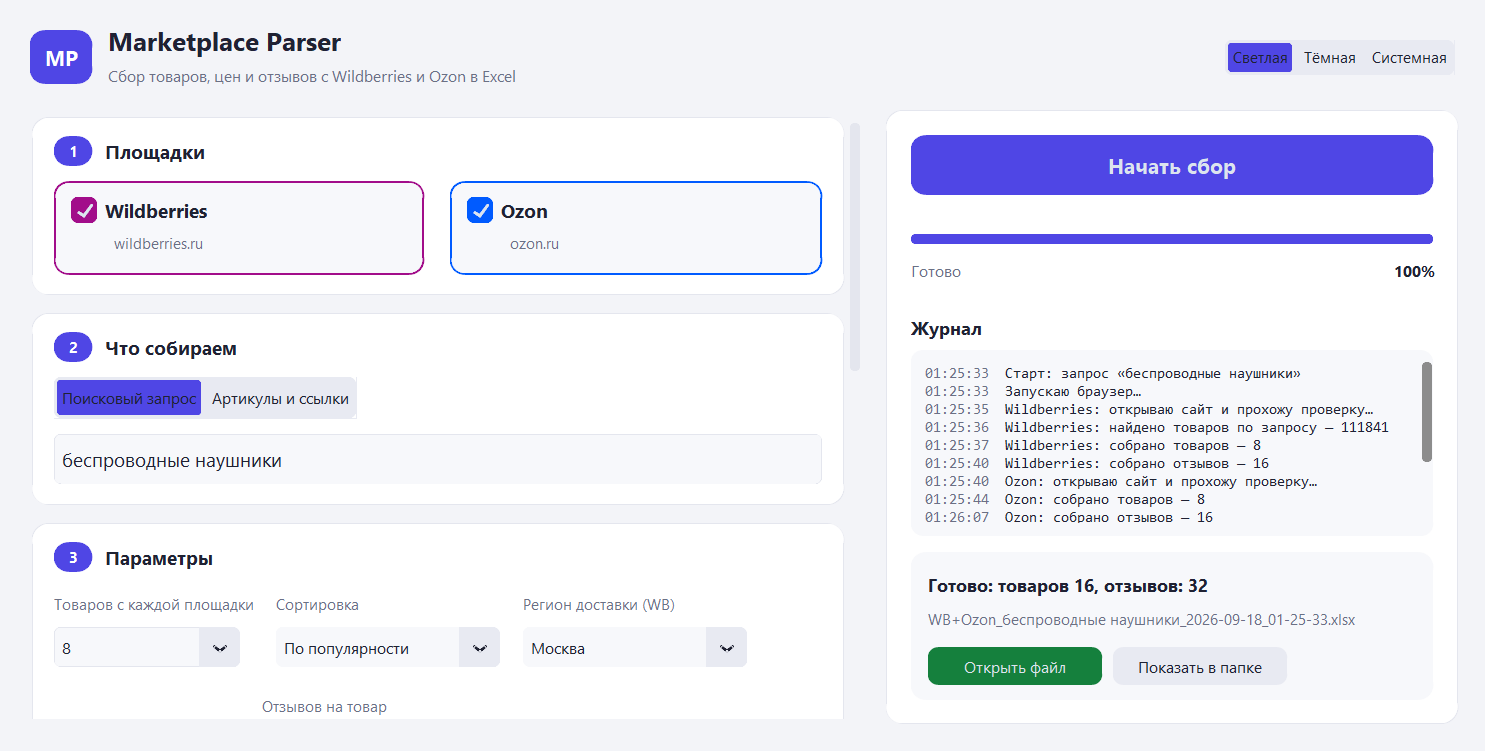
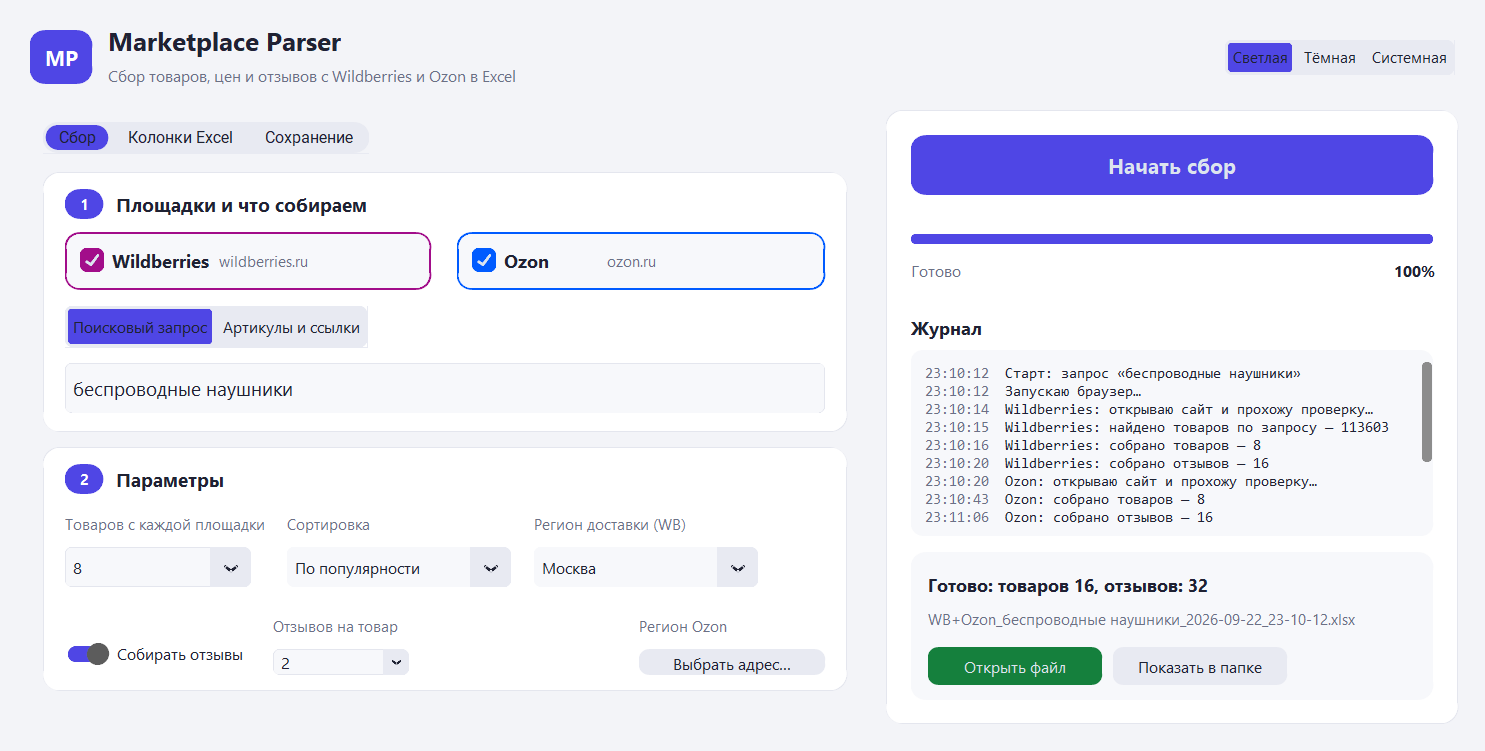
Версия 1.0.1: вкладки вместо прокрутки, системные требования в README
- Настройки разложены по вкладкам «Сбор», «Колонки Excel», «Сохранение».
  Прокрутка убрана: при ней Tkinter не успевал перерисовывать вложенные
  карточки, и рамки «наезжали» друг на друга.
- Скриншоты снимаются через PrintWindow (tools/window_capture.py): снимок
  берётся у самого окна, чужие окна поверх него в кадр не попадают.
- README: системные требования (Windows 10/11 x64, Chrome или Edge) и раздел
  про SmartScreen и добавление папки программы в исключения антивируса.

diff --git a/mpparser/gui/app.py b/mpparser/gui/app.py
@@ -66,13 +66,22 @@ class App(ctk.CTk):
         content.grid_columnconfigure(1, weight=2, uniform="columns")
         content.grid_rowconfigure(0, weight=1)
 
-        self.form = ctk.CTkScrollableFrame(content, fg_color="transparent", scrollbar_button_color=theme.CARD_BORDER)
-        self.form.grid(row=0, column=0, sticky="nsew", padx=(0, 16))
-        self._build_marketplaces()
-        self._build_input()
-        self._build_options()
-        self._build_fields()
-        self._build_output()
+        # Tabs instead of one long scrollable column: everything fits on screen, and Tk does not have to
+        # repaint nested rounded frames while scrolling (which left visual artefacts).
+        self.tabs = ctk.CTkTabview(
+            content, fg_color="transparent", corner_radius=12, anchor="nw",
+            segmented_button_selected_color=theme.ACCENT, segmented_button_selected_hover_color=theme.ACCENT_HOVER,
+            segmented_button_unselected_color=theme.NEUTRAL_BUTTON,
+            segmented_button_unselected_hover_color=theme.NEUTRAL_BUTTON_HOVER,
+            segmented_button_fg_color=theme.NEUTRAL_BUTTON, text_color=theme.TEXT)
+        self.tabs.grid(row=0, column=0, sticky="nsew", padx=(0, 16))
+        collect_tab = self.tabs.add("Сбор")
+        fields_tab = self.tabs.add("Колонки Excel")
+        output_tab = self.tabs.add("Сохранение")
+        self._build_input(collect_tab)
+        self._build_options(collect_tab)
+        self._build_fields(fields_tab)
+        self._build_output(output_tab)
 
         self._build_run_panel(content)
         self._refresh_marketplace_state()
@@ -116,21 +125,22 @@ class App(ctk.CTk):
         self.appearance.set("Системная")
         self.appearance.pack(side="right")
 
-    def _build_marketplaces(self) -> None:
-        card = SectionCard(self.form, 1, "Площадки")
-        card.pack(fill="x", pady=(0, 14))
-        card.body.grid_columnconfigure((0, 1), weight=1, uniform="mp")
+    def _build_marketplaces(self, parent: ctk.CTkBaseClass) -> None:
+        row = ctk.CTkFrame(parent, fg_color="transparent")
+        row.pack(fill="x", pady=(0, 12))
+        row.grid_columnconfigure((0, 1), weight=1, uniform="mp")
         self.mp_vars: dict[str, ctk.BooleanVar] = {}
         for column, (key, title) in enumerate(MARKETPLACES.items()):
             var = ctk.BooleanVar(value=key in self.settings.marketplaces)
             self.mp_vars[key] = var
-            toggle = MarketplaceToggle(card.body, key, title, MARKETPLACE_SUBTITLES[key], var,
+            toggle = MarketplaceToggle(row, key, title, MARKETPLACE_SUBTITLES[key], var,
                                        self._refresh_marketplace_state)
             toggle.grid(row=0, column=column, sticky="ew", padx=(0, 10) if column == 0 else (10, 0))
 
-    def _build_input(self) -> None:
-        card = SectionCard(self.form, 2, "Что собираем")
-        card.pack(fill="x", pady=(0, 14))
+    def _build_input(self, parent: ctk.CTkBaseClass) -> None:
+        card = SectionCard(parent, 1, "Площадки и что собираем")
+        card.pack(fill="x", pady=(0, 12))
+        self._build_marketplaces(card.body)
         self.mode = ctk.CTkSegmentedButton(
             card.body, values=list(MODE_TITLES.values()), command=lambda _: self._refresh_mode(),
             font=theme.font(13), height=34, selected_color=theme.ACCENT, selected_hover_color=theme.ACCENT_HOVER,
@@ -179,9 +189,9 @@ class App(ctk.CTk):
         self.mode_container = card.body
         self._refresh_mode()
 
-    def _build_options(self) -> None:
-        card = SectionCard(self.form, 3, "Параметры")
-        card.pack(fill="x", pady=(0, 14))
+    def _build_options(self, parent: ctk.CTkBaseClass) -> None:
+        card = SectionCard(parent, 2, "Параметры")
+        card.pack(fill="x", pady=(0, 12))
         row1 = ctk.CTkFrame(card.body, fg_color="transparent")
         row1.pack(fill="x")
         self.max_products = NumberField(row1, "Товаров с каждой площадки", [20, 50, 100, 300, 500, 1000],
@@ -201,17 +211,16 @@ class App(ctk.CTk):
         self.collect_reviews.pack(side="left", anchor="s", pady=(0, 6))
         self.max_reviews = NumberField(row2, "Отзывов на товар", [5, 10, 20, 50, 100, 300], self.settings.max_reviews)
         self.max_reviews.pack(side="left", padx=(24, 0))
+        # Ozon takes its region from the address saved in the parser's browser profile, not from the menu above.
+        ozon_box = ctk.CTkFrame(row2, fg_color="transparent")
+        ozon_box.pack(side="right")
+        ctk.CTkLabel(ozon_box, text="Регион Ozon", font=theme.font(12), text_color=theme.TEXT_MUTED).pack(anchor="w")
+        self.ozon_setup_button = neutral_button(ozon_box, "Выбрать адрес…", self._open_ozon_setup, width=150)
+        self.ozon_setup_button.pack(anchor="w", pady=(4, 0))
         self._refresh_reviews_state()
 
-        ozon_row = ctk.CTkFrame(card.body, fg_color="transparent")
-        ozon_row.pack(fill="x", pady=(14, 0))
-        ctk.CTkLabel(ozon_row, text="Ozon берёт регион из адреса доставки, сохранённого в браузере парсера.",
-                     font=theme.font(12), text_color=theme.TEXT_MUTED).pack(side="left")
-        self.ozon_setup_button = neutral_button(ozon_row, "Выбрать адрес Ozon…", self._open_ozon_setup, width=170)
-        self.ozon_setup_button.pack(side="right")
-
-    def _build_fields(self) -> None:
-        card = SectionCard(self.form, 4, "Колонки в Excel",
+    def _build_fields(self, parent: ctk.CTkBaseClass) -> None:
+        card = SectionCard(parent, None, "Какие колонки попадут в файл",
                            hint="Бренд, продавец, категория и цена по карте для Ozon есть только в карточке товара: "
                                 "парсер откроет каждую карточку, сбор займёт больше времени.")
         card.pack(fill="x", pady=(0, 14))
@@ -260,8 +269,8 @@ class App(ctk.CTk):
         neutral_button(buttons, "По умолчанию", set_default, width=120).pack(side="left")
         return variables
 
-    def _build_output(self) -> None:
-        card = SectionCard(self.form, 5, "Сохранение")
+    def _build_output(self, parent: ctk.CTkBaseClass) -> None:
+        card = SectionCard(parent, None, "Куда сохранять отчёт")
         card.pack(fill="x", pady=(0, 4))
         row = ctk.CTkFrame(card.body, fg_color="transparent")
         row.pack(fill="x")

diff --git a/mpparser/gui/widgets.py b/mpparser/gui/widgets.py
@@ -10,22 +10,22 @@ from . import theme
 
 
 class SectionCard(ctk.CTkFrame):
-    """A rounded card with a numbered title; put content into ``self.body``."""
+    """A rounded card with a title; put content into ``self.body``. ``number`` adds a step badge."""
 
-    def __init__(self, master: ctk.CTkBaseClass, number: int, title: str, hint: str = "") -> None:
+    def __init__(self, master: ctk.CTkBaseClass, number: int | None, title: str, hint: str = "") -> None:
         super().__init__(master, fg_color=theme.CARD_BG, corner_radius=14, border_width=1,
                          border_color=theme.CARD_BORDER)
         header = ctk.CTkFrame(self, fg_color="transparent")
-        header.pack(fill="x", padx=18, pady=(14, 0))
-        badge = ctk.CTkLabel(header, text=str(number), width=24, height=24, corner_radius=12,
-                             fg_color=theme.ACCENT, text_color="#FFFFFF", font=theme.font(12, "bold"))
-        badge.pack(side="left")
-        ctk.CTkLabel(header, text=title, font=theme.font(15, "bold"), text_color=theme.TEXT).pack(side="left", padx=10)
+        header.pack(fill="x", padx=18, pady=(12, 0))
+        if number is not None:
+            ctk.CTkLabel(header, text=str(number), width=24, height=24, corner_radius=12, fg_color=theme.ACCENT,
+                         text_color="#FFFFFF", font=theme.font(12, "bold")).pack(side="left", padx=(0, 10))
+        ctk.CTkLabel(header, text=title, font=theme.font(15, "bold"), text_color=theme.TEXT).pack(side="left")
         if hint:
             ctk.CTkLabel(self, text=hint, font=theme.font(12), text_color=theme.TEXT_MUTED, justify="left",
                          anchor="w", wraplength=560).pack(fill="x", padx=18, pady=(4, 0))
         self.body = ctk.CTkFrame(self, fg_color="transparent")
-        self.body.pack(fill="both", expand=True, padx=18, pady=(10, 16))
+        self.body.pack(fill="both", expand=True, padx=18, pady=(8, 14))
 
 
 class MarketplaceToggle(ctk.CTkFrame):
@@ -38,12 +38,12 @@ class MarketplaceToggle(ctk.CTkFrame):
         self._color = color
         self._variable = variable
         self.checkbox = ctk.CTkCheckBox(self, text=title, variable=variable, command=self._changed,
-                                        font=theme.font(15, "bold"), text_color=theme.TEXT,
+                                        font=theme.font(14, "bold"), text_color=theme.TEXT,
                                         fg_color=color, hover_color=color, border_color=color,
-                                        checkbox_width=22, checkbox_height=22, corner_radius=6)
-        self.checkbox.pack(anchor="w", padx=14, pady=(12, 0))
+                                        checkbox_width=20, checkbox_height=20, corner_radius=6)
+        self.checkbox.pack(side="left", padx=(12, 8), pady=10)
         ctk.CTkLabel(self, text=subtitle, font=theme.font(12), text_color=theme.TEXT_MUTED).pack(
-            anchor="w", padx=48, pady=(0, 12))
+            side="left", pady=10)
         self._command = command
         self._refresh()
 

diff --git a/tools/window_capture.py b/tools/window_capture.py
@@ -1,0 +1,73 @@
+"""Capture a Tk window by asking Windows to render it, not by copying screen pixels.
+
+``ImageGrab.grab`` returns whatever is on screen inside the given rectangle, so any window that happens to
+overlap ours lands in the screenshot. ``PrintWindow`` with PW_RENDERFULLCONTENT renders the window itself,
+which works even when it is covered by other windows.
+"""
+
+from __future__ import annotations
+
+import ctypes
+from ctypes import wintypes
+from pathlib import Path
+
+from PIL import Image
+
+PW_CLIENTONLY = 1
+PW_RENDERFULLCONTENT = 2
+DIB_RGB_COLORS = 0
+BI_RGB = 0
+
+user32 = ctypes.windll.user32
+gdi32 = ctypes.windll.gdi32
+
+
+class BITMAPINFOHEADER(ctypes.Structure):
+    _fields_ = [
+        ("biSize", wintypes.DWORD),
+        ("biWidth", wintypes.LONG),
+        ("biHeight", wintypes.LONG),
+        ("biPlanes", wintypes.WORD),
+        ("biBitCount", wintypes.WORD),
+        ("biCompression", wintypes.DWORD),
+        ("biSizeImage", wintypes.DWORD),
+        ("biXPelsPerMeter", wintypes.LONG),
+        ("biYPelsPerMeter", wintypes.LONG),
+        ("biClrUsed", wintypes.DWORD),
+        ("biClrImportant", wintypes.DWORD),
+    ]
+
+
+def capture(widget) -> Image.Image:  # widget: any Tk widget of the window to capture
+    """Return the window's client area as an image."""
+    hwnd = user32.GetParent(widget.winfo_id()) or widget.winfo_id()
+    rect = wintypes.RECT()
+    user32.GetClientRect(hwnd, ctypes.byref(rect))
+    width, height = rect.right - rect.left, rect.bottom - rect.top
+    if width <= 0 or height <= 0:
+        raise RuntimeError("window has no client area yet")
+
+    window_dc = user32.GetDC(hwnd)
+    memory_dc = gdi32.CreateCompatibleDC(window_dc)
+    bitmap = gdi32.CreateCompatibleBitmap(window_dc, width, height)
+    try:
+        gdi32.SelectObject(memory_dc, bitmap)
+        if not user32.PrintWindow(hwnd, memory_dc, PW_CLIENTONLY | PW_RENDERFULLCONTENT):
+            raise RuntimeError("PrintWindow failed")
+        header = BITMAPINFOHEADER(
+            biSize=ctypes.sizeof(BITMAPINFOHEADER), biWidth=width, biHeight=-height,  # negative: top-down
+            biPlanes=1, biBitCount=32, biCompression=BI_RGB,
+        )
+        buffer = ctypes.create_string_buffer(width * height * 4)
+        if not gdi32.GetDIBits(memory_dc, bitmap, 0, height, buffer, ctypes.byref(header), DIB_RGB_COLORS):
+            raise RuntimeError("GetDIBits failed")
+        return Image.frombuffer("RGB", (width, height), buffer, "raw", "BGRX", 0, 1)
+    finally:
+        gdi32.DeleteObject(bitmap)
+        gdi32.DeleteDC(memory_dc)
+        user32.ReleaseDC(hwnd, window_dc)
+
+
+def save(widget, path: Path) -> None:  # widget: any Tk widget of the window to capture
+    path.parent.mkdir(parents=True, exist_ok=True)
+    capture(widget).save(path)

diff --git a/tools/screenshot.py b/tools/screenshot.py
@@ -1,6 +1,6 @@
 """Render the main window with demo input and save a screenshot (used for README images).
 
-Usage: python tools/screenshot.py OUTPUT.png [light|dark] [query|ids]
+Usage: python tools/screenshot.py OUTPUT.png [light|dark] [query|ids] [tab name]
 """
 
 from __future__ import annotations
@@ -9,9 +9,10 @@ import sys
 from pathlib import Path
 
 sys.path.insert(0, str(Path(__file__).resolve().parents[1]))
+sys.path.insert(0, str(Path(__file__).resolve().parent))
 
 import customtkinter as ctk
-from PIL import ImageGrab
+import window_capture
 
 from mpparser.gui.app import App, setup_logging
 
@@ -20,6 +21,7 @@ def main() -> None:
     output = Path(sys.argv[1])
     appearance = sys.argv[2] if len(sys.argv) > 2 else "light"
     mode = sys.argv[3] if len(sys.argv) > 3 else "query"
+    tab = sys.argv[4] if len(sys.argv) > 4 else None
     setup_logging()
     ctk.set_appearance_mode(appearance)
     app = App()
@@ -29,26 +31,21 @@ def main() -> None:
     app.query.insert(0, "беспроводные наушники")
     app.max_products.combo.set("100")
     app.max_reviews.combo.set("20")
+    app.output_dir.delete(0, "end")
+    app.output_dir.insert(0, str(Path.home() / "Documents" / "Marketplace Parser"))
+    app.open_when_done.select()
     if mode == "ids":
         app.mode.set("Артикулы и ссылки")
         app._refresh_mode()
+    if tab:
+        app.tabs.set(tab)
 
     def capture() -> None:
         app.update()
-        x, y = app.winfo_rootx(), app.winfo_rooty()
-        w, h = app.winfo_width(), app.winfo_height()
-        output.parent.mkdir(parents=True, exist_ok=True)
-        ImageGrab.grab(bbox=(x, y, x + w, y + h), all_screens=True).save(output)
+        window_capture.save(app, output)
         app.destroy()
 
-    def bring_to_front() -> None:
-        # ImageGrab copies screen pixels, so any window on top of ours would end up in the image.
-        app.attributes("-topmost", True)
-        app.lift()
-        app.focus_force()
-        app.after(500, capture)
-
-    app.after(2000, bring_to_front)
+    app.after(2000, capture)
     app.mainloop()
 
 

diff --git a/mpparser/__init__.py b/mpparser/__init__.py
@@ -1,4 +1,4 @@
 """Marketplace Parser: collects products, prices and reviews from Wildberries and Ozon into Excel."""
 
-__version__ = "1.0.0"
+__version__ = "1.0.1"
 APP_NAME = "Marketplace Parser"

diff --git a/README.md b/README.md
@@ -24,6 +24,10 @@
 |---|---|
 | ![Процесс сбора](docs/screenshots/app-running.png) | ![Результат](docs/screenshots/app-done.png) |
 
+Колонки Excel выбираются галочками, тёмная тема переключается в шапке:
+
+![Выбор колонок](docs/screenshots/app-fields.png)
+
 ## Что попадает в Excel
 
 **Лист «Товары»:** площадка, артикул, позиция в выдаче, название, бренд, продавец, рейтинг продавца, цена,
@@ -53,6 +57,33 @@
 
 Профиль браузера сохраняется между запусками, поэтому проверки проходят быстрее, а адрес доставки Ozon
 достаточно выбрать один раз (кнопка «Выбрать адрес Ozon…»).
+
+## Системные требования
+
+- Windows 10 или 11, 64-разрядная. На Windows 7 и 8 программа не запускается: её основа — Python 3.13 и
+  современный Chrome, а они эти версии Windows больше не поддерживают.
+- Google Chrome или Microsoft Edge (Edge предустановлен в Windows 10 и 11) — программа управляет уже
+  установленным браузером и свой внутрь не упаковывает.
+- Доступ к wildberries.ru и ozon.ru с российского IP.
+- Около 400 МБ свободного места.
+
+## Первый запуск: предупреждение Windows и антивирус
+
+Программа не подписана сертификатом разработчика (платная процедура), поэтому Windows встречает её
+предупреждением SmartScreen «Система Windows защитила ваш компьютер»: нажмите «Подробнее», затем
+«Выполнить в любом случае». Достаточно одного раза.
+
+Антивирус может спрашивать разрешение при каждом действии: программа запускает браузер (`chrome.exe`
+или `msedge.exe`) и вспомогательный процесс `node.exe`, который им управляет. Чтобы разрешить всё один
+раз, добавьте папку программы в исключения:
+
+- **Защитник Windows:** Параметры → Конфиденциальность и защита → Безопасность Windows → Защита от вирусов
+  и угроз → Управление настройками → Исключения → Добавление или удаление исключений → Добавить исключение →
+  Папка → выбрать папку с `MarketplaceParser.exe`.
+- **Kaspersky:** Настройки → Угрозы и исключения → Настроить исключения / Указать доверенные программы →
+  добавить `MarketplaceParser.exe` и снять ограничения на его активность.
+- **Другие антивирусы:** раздел называется «Исключения», «Доверенная зона» или «Белый список» — добавьте
+  туда папку программы целиком, а не отдельный файл: браузер и `node.exe` запускаются из неё же.
 
 ## Установка и запуск
 

diff --git a/README.en.md b/README.en.md
@@ -25,6 +25,10 @@ client does not need Python.
 |---|---|
 | ![Collecting](docs/screenshots/app-running.png) | ![Finished](docs/screenshots/app-done.png) |
 
+Excel columns are picked with checkboxes; the dark theme is switched in the header:
+
+![Column picker](docs/screenshots/app-fields.png)
+
 ## What the report contains
 
 **Products sheet:** marketplace, article, position in search results, name, brand, seller, seller rating, price,
@@ -53,6 +57,31 @@ parser does not forge requests — it works through a real browser:
 
 The browser profile is kept between runs, so the checks pass faster and the Ozon delivery address only has to be
 chosen once (the "Выбрать адрес Ozon…" button).
+
+## System requirements
+
+- Windows 10 or 11, 64-bit. The app does not run on Windows 7 or 8: it is built on Python 3.13 and a current
+  Chrome, neither of which supports those versions any more.
+- Google Chrome or Microsoft Edge (preinstalled on Windows 10 and 11) — the app drives the browser that is
+  already installed instead of bundling one.
+- Access to wildberries.ru and ozon.ru from a Russian IP address.
+- About 400 MB of free disk space.
+
+## First launch: Windows warning and antivirus
+
+The build is not signed with a developer certificate (those cost money), so Windows SmartScreen shows
+"Windows protected your PC" on the first launch: click "More info" → "Run anyway". Once is enough.
+
+An antivirus may ask for permission on every action, because the app starts a browser (`chrome.exe` or
+`msedge.exe`) and the `node.exe` helper that drives it. To allow everything once, add the application folder
+to the exclusions:
+
+- **Windows Defender:** Settings → Privacy & security → Windows Security → Virus & threat protection →
+  Manage settings → Exclusions → Add an exclusion → Folder → pick the folder with `MarketplaceParser.exe`.
+- **Kaspersky:** Settings → Threats and exclusions → Specify trusted applications → add
+  `MarketplaceParser.exe` and lift the restrictions on its activity.
+- **Other antivirus software:** the section is usually called "Exclusions", "Trusted zone" or "Allow list" —
+  add the whole application folder rather than the single file, because the browser and `node.exe` start from it.
 
 ## Installation
 
